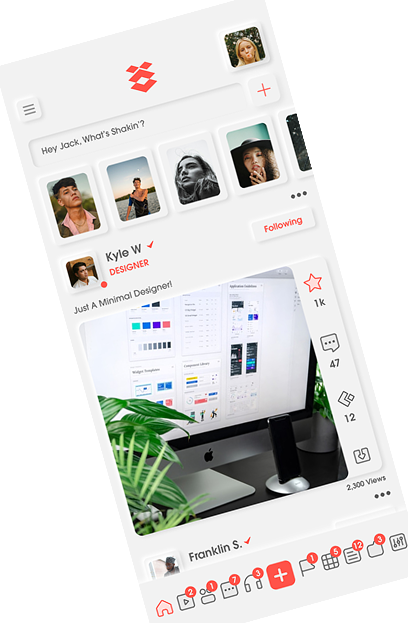
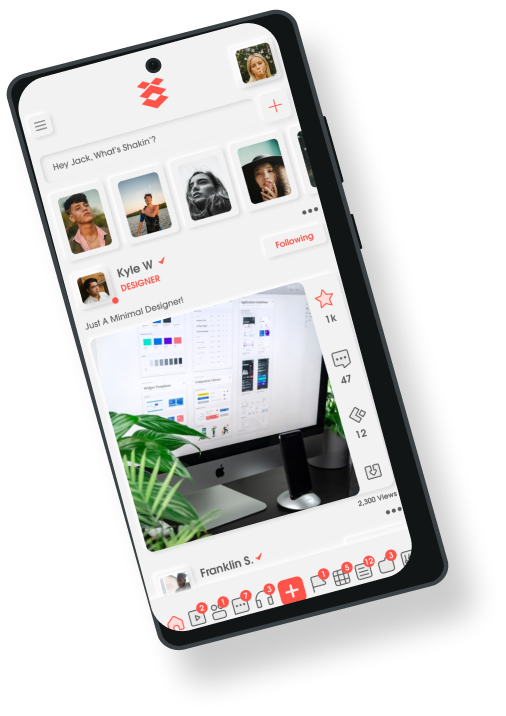
section 4

diff --git a/src/components/WhySection/WhySection.css b/src/components/WhySection/WhySection.css
@@ -1,17 +1,16 @@
 /* ── Why Section ─────────────────────────────────────────── */
 .why {
-  background: var(--off-white);
-  padding: clamp(60px,8vw,100px) clamp(20px,5vw,60px);
-  overflow: hidden;
+  background: #f2f2f2;
+  padding: 80px 50px;
+  overflow: visible;
 }
 
 .why__inner {
-  max-width: 1200px;
-  margin: 0 auto;
+ 
   display: grid;
   grid-template-columns: 1fr 1fr;
   align-items: center;
-  gap: 60px;
+  gap: 10px;
 }
 
 /* ── Mockup ─────────────────────────────────────────────── */
@@ -25,36 +24,32 @@
 
 .why__circle {
   position: absolute;
-  bottom: -40px;
-  left: -40px;
-  width: 280px;
-  height: 280px;
-  background: var(--coral);
+  bottom: 20px;
+  left: 0px;
+  width: 450px;
+  height: 450px;
+  background: #FF5349;
   border-radius: 50%;
   z-index: 0;
-  opacity: 0.18;
 }
 
 .why-phone {
   position: absolute;
-  background: #1a1a2e;
   border-radius: 30px;
   padding: 12px 8px;
-  box-shadow: 0 16px 50px rgba(0,0,0,0.3);
-  overflow: hidden;
+  overflow: visible;
 }
 
 .why-phone--back {
-  width: 180px; height: 360px;
-  top: 60px; left: 20px;
-  transform: rotate(-6deg);
+  width: 400px; height: 460px;
+  top: -60px; left:-60px;
   z-index: 1;
-  opacity: 0.7;
 }
 
 .why-phone--front {
-  width: 210px; height: 400px;
-  top: 40px; left: 80px;
+  width: 500px; height: 760px;
+  top: -60px; left: 100px;
+
   z-index: 2;
 }
 
@@ -103,16 +98,26 @@
 }
 
 /* ── Content ────────────────────────────────────────────── */
-.why__content { padding: 20px 0; }
 
-.why__heading { margin-bottom: 18px; }
+
+.why__heading {
+  font-size: 3rem;
+   margin-bottom: 40px;
+   max-width: 800px;
+  font-family: 'Ati goth',sans-serif;
+  text-align: left;
+  font-weight: 900
+}
 
 .why__sub {
   font-size: 0.88rem;
-  color: var(--text-muted);
+  font-family: 'Ati goth',sans-serif;
+  font-weight: 400;
+  color: #525252;
   line-height: 1.75;
-  max-width: 420px;
+  margin-top: 40px;
   margin-bottom: 36px;
+  margin-left: 50px;
 }
 
 .why__points {
@@ -125,12 +130,13 @@
   display: flex;
   align-items: flex-start;
   gap: 16px;
-  background: var(--white);
+  background: #f2f2f2;
   border-radius: var(--radius-sm);
   padding: 16px 18px;
   box-shadow: var(--shadow-sm);
   border: 1px solid var(--border);
   transition: box-shadow 0.25s, transform 0.25s;
+  margin-left: 70px;
 }
 .why__point:hover {
   box-shadow: 0 6px 24px rgba(249,87,56,0.12);

diff --git a/src/components/WhySection/WhySection.jsx b/src/components/WhySection/WhySection.jsx
@@ -64,7 +64,7 @@ export default function WhySection() {
            <img src="src\assets\phone 2 back.png" alt="" />
           </div>
           <div className="why-phone why-phone--front">
-           <img src="src\assets\phone2 front.png" alt="" />
+           <img src="src\assets\phone 2 front.png" alt="" />
           </div>
 
           {/* Red circle accent */}
@@ -74,7 +74,7 @@ export default function WhySection() {
         {/* Text */}
         <div className="why__content">
           <h2 className="why__heading section-title">
-            Where Every Click<br />Sparks a Connection!
+            Where Every Click Sparks a Connection!
           </h2>
           <p className="why__sub">
             A small act of kindness today can create a lifetime of impact for someone in
